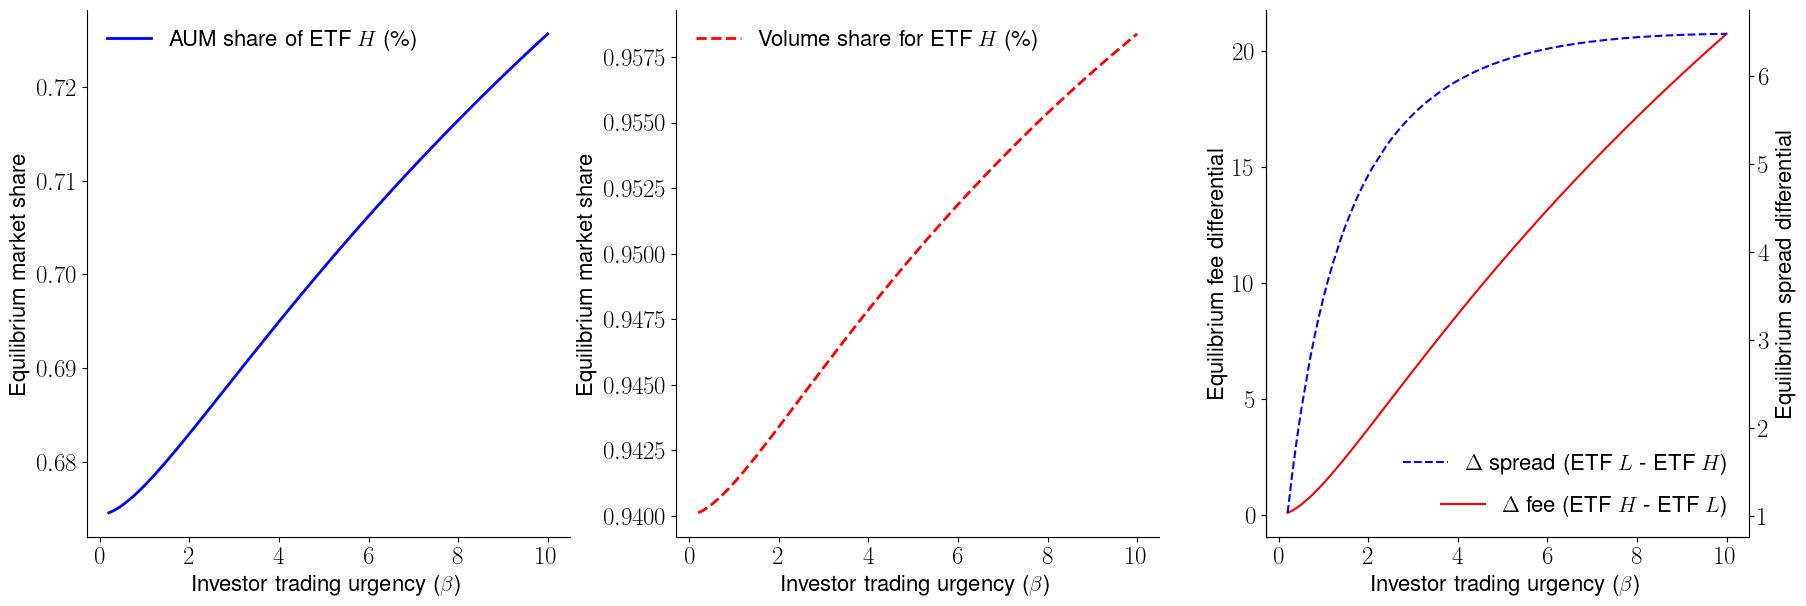
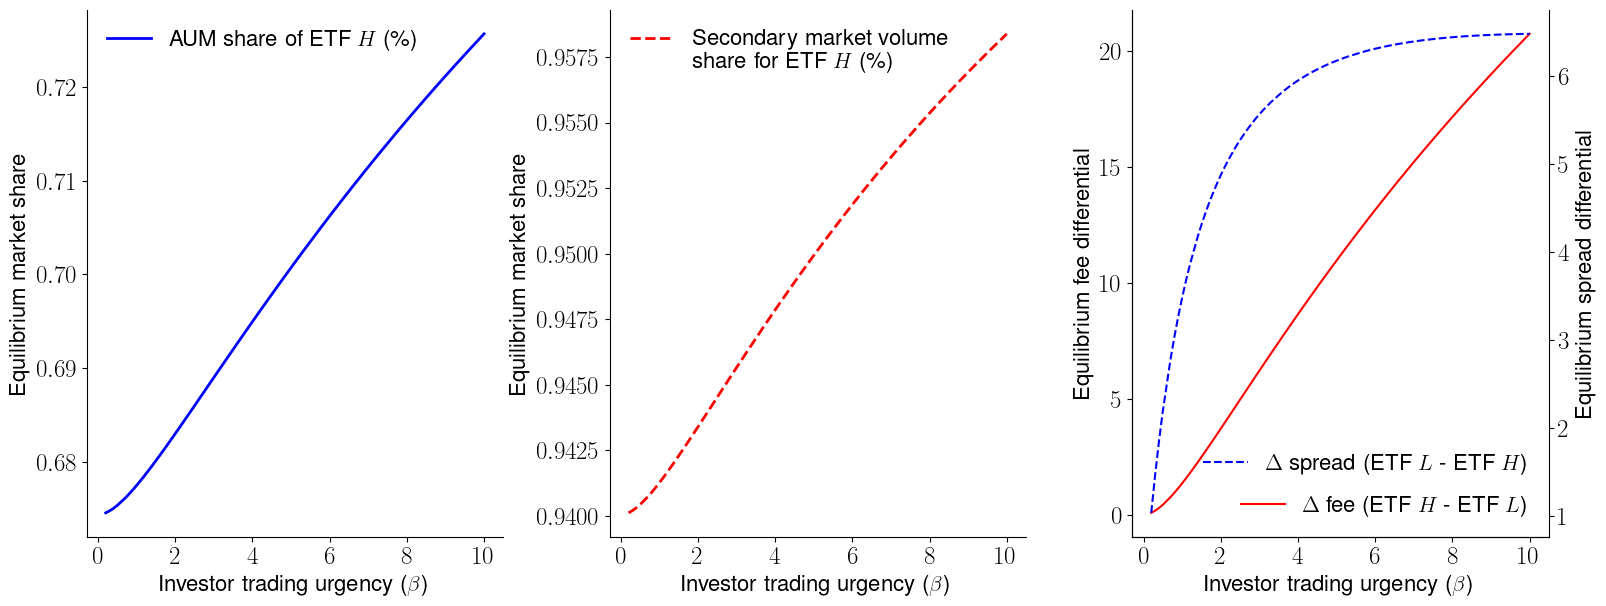
Updated figure

diff --git a/code/theory_figure_RFS_RR.py b/code/theory_figure_RFS_RR.py
@@ -329,7 +329,7 @@ ax=fig.add_subplot(gs[0, 1])
 ax=settings_plot(ax)
 
 #plt.plot(beta_space,sharesH_space,ls='-',c='b',label=r'AUM share of ETF $H$ (\%)',lw=2)
-plt.plot(beta_space,tsharesH_space,ls='--',c='r',label=r'Secondary market volume share for ETF $H$ (\%)',lw=2)
+plt.plot(beta_space,tsharesH_space,ls='--',c='r',label=r'\noindent Secondary market volume \\ share for ETF $H$ (\%)',lw=2)
 
 plt.legend(loc='best',frameon=False,fontsize=16)
 plt.xlabel(r'Investor trading urgency ($\beta$)',fontsize=16)
